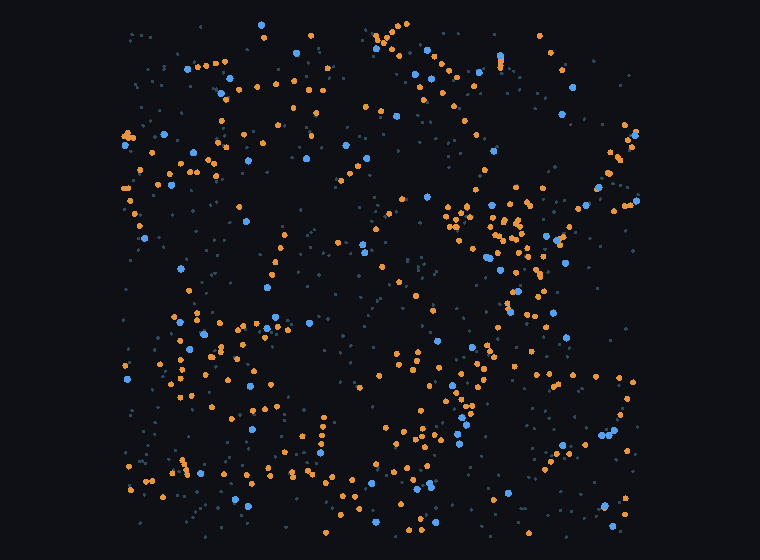
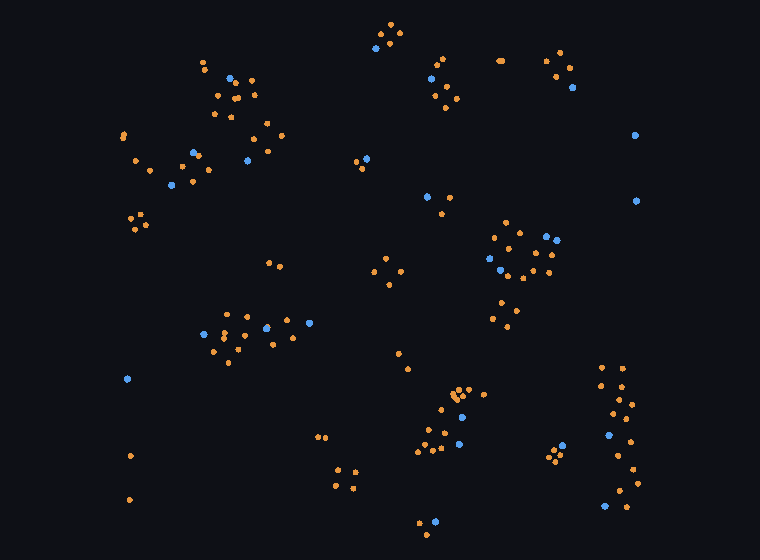
vivarium: run our field in 3-D with IMPLICIT solvent, to separate dimensionality from beta
Two differences remain between our model and the reference -- the oracle is 3-D and has beta = 0.15 --
and every other measured property now matches (coalescence at all three gaps, line tension, fluidity,
cluster diffusion, spontaneous curling). This run separates them.

Implicit solvent removes the 3-D defect rather than working around it: our explicit water is fragmented
droplets at every affordable packing fraction (0.15-0.35 gives largest cluster 0.27-0.48 with empty
cells), which voided every previous 3-D run, and the oracle uses no solvent at all. The hydrophobic
ordering survives through chi, tails attracting tails (0.70) above heads attracting heads (0.20).

Launched: our field, 3-D, 300 branched lipids, no water, L = 25 (the oracle's box), kT = 0.45,
dispersed, 400000 steps. Falsification stated first -- vesicles mean 2-D was the blocker and the model
is otherwise complete; flat sheets and strands mean dimensionality is NOT the difference and beta is
the remaining candidate.

Two harness bugs fixed, both of the same family as earlier ones: n_water had no zero case so implicit
solvent raised "L too small"; and geometry computed lumen occupancy from an empty water array, now
returning NaN rather than 0, since 0 would read as "lumen collapsed" when nothing was measured.

Claude-Session: https://claude.ai/code/session_017Ld9DgPtjwxx7hhxTDgxgL

diff --git a/projects/vivarium/_mixture.py b/projects/vivarium/_mixture.py
@@ -336,11 +336,17 @@ def geometry(X, mols, wi, chains, L, d):
 
     lip_len = float(chains.mean())
     r_in = max(R_mid - lip_len, 0.0)
-    rw = np.linalg.norm(_wrap(X[wi] - cen, L), axis=1)
-    n_in = int((rw < r_in).sum())
-    lumen = 0.0
-    if r_in > 0.5:
-        lumen = (n_in / (C_D[d] * r_in ** d)) / (len(wi) / L ** d)
+    # With IMPLICIT solvent there are no water beads, so lumen occupancy is undefined rather than
+    # zero. Reporting 0 would read as "lumen collapsed" when in fact nothing was measured, which is
+    # exactly the kind of silent-zero this project has been caught by before.
+    if len(wi) == 0:
+        n_in, lumen = 0, float("nan")
+    else:
+        rw = np.linalg.norm(_wrap(X[wi] - cen, L), axis=1)
+        n_in = int((rw < r_in).sum())
+        lumen = 0.0
+        if r_in > 0.5:
+            lumen = (n_in / (C_D[d] * r_in ** d)) / (len(wi) / L ** d)
     return dict(f_out=f_out, f_in=f_in, n_out=int(outer.sum()), n_in_leaf=int(inner.sum()),
                 R_mid=R_mid, shell_cv=shell_cv, lumen=lumen, lumen_w=n_in, r_in=r_in)
 
@@ -400,11 +406,17 @@ if __name__ == "__main__":
     n_short = int(round(n_lip * frac_short))
     n_long = n_lip - n_short
     lip_beads = n_short * 3 + n_long * 5
-    n_water = int(round(phi * L ** d / C_D[d] * (2 ** d))) - lip_beads
+    # phi = 0 means IMPLICIT SOLVENT: no water beads at all, which is what the oracle does. It also
+    # removes the 3-D solvent defect entirely -- at phi 0.15-0.35 our explicit water is fragmented
+    # droplets rather than a liquid, which voided every previous 3-D run here. Without water the
+    # hydrophobic ordering still holds through chi, since tails attract tails (0.70) more than heads
+    # attract heads (0.20), which is the Cooke-Deserno construction.
+    n_water = 0 if phi <= 0.0 else int(round(phi * L ** d / C_D[d] * (2 ** d))) - lip_beads
     if n_water < 0:
         raise ValueError(f"L={L} too small for {n_lip} lipids at packing fraction {phi}")
 
-    X, species, bonds, mols, wi, chains = build(n_short, n_long, n_water, L, d, plant=plant)
+    X, species, bonds, mols, wi, chains = build(n_short, n_long, n_water, L, d, plant=plant,
+                                                branched=True)
     f = Field(species, bonds, L)
     # INERTIAL at the validated dt = 8e-3: same energy, same equilibrium ensemble (verified against
     # the overdamped run over 5 seeds per rung), 28x more reduced time per minute end to end.

diff --git a/projects/vivarium/docs/AUTONOMOUS_LOG.md b/projects/vivarium/docs/AUTONOMOUS_LOG.md
@@ -1739,3 +1739,33 @@ achievable at all, or whether the target as specified is unreachable in principl
 
 **Falsification for any further work.** A model with an EVEN orientation term (rigidity, C_0 = 0)
 should not close if this reading is right. That is the one cheap test left that could overturn it.
+
+---
+
+## 2026-08-19 tick — our force field in 3-D with IMPLICIT solvent, to separate dimensionality from beta
+
+**Two differences remain** between our model and the reference: the oracle is 3-D, and it has
+`beta = 0.15`. Every other measured property now matches. This run separates them.
+
+**Why implicit solvent.** Our 3-D explicit water is fragmented droplets at every affordable packing
+fraction (0.15-0.35: largest cluster 0.27-0.48, empty cells), which voided every previous 3-D run. The
+oracle uses no solvent at all. Setting `phi = 0` removes the defect rather than working around it, and
+the hydrophobic ordering survives through `chi`, where tails attract tails (0.70) more than heads
+attract heads (0.20) -- the Cooke-Deserno construction.
+
+**Launched:** our field, 3-D, 300 branched lipids, no water, L = 25 (the oracle's box), kT = 0.45,
+dispersed start, 400000 steps.
+
+**Falsification, stated before the run.** If vesicles appear, 2-D was the blocker all along, the model
+is otherwise complete, and every 2-D negative result was answering a question about dimensionality
+rather than about the force field. If flat sheets and strands appear as in 2-D, dimensionality is NOT
+the difference and `beta` is the remaining candidate -- which would mean our model reproduces
+oracle-at-beta-0 in three dimensions as well as two.
+
+**Two harness bugs fixed to get here**, both of the same family as earlier ones:
+* `n_water` was computed from `phi` with no zero case, so implicit solvent raised "L too small";
+* `geometry` computed lumen occupancy from an empty water array. It now returns NaN rather than 0 --
+  reporting 0 would read as "lumen collapsed" when nothing was measured at all, which is precisely the
+  silent-zero this project has been caught by before.
+
+**No emergent screenshot.** Nothing new since the dilute run finished; this 3-D run is at step 0.
